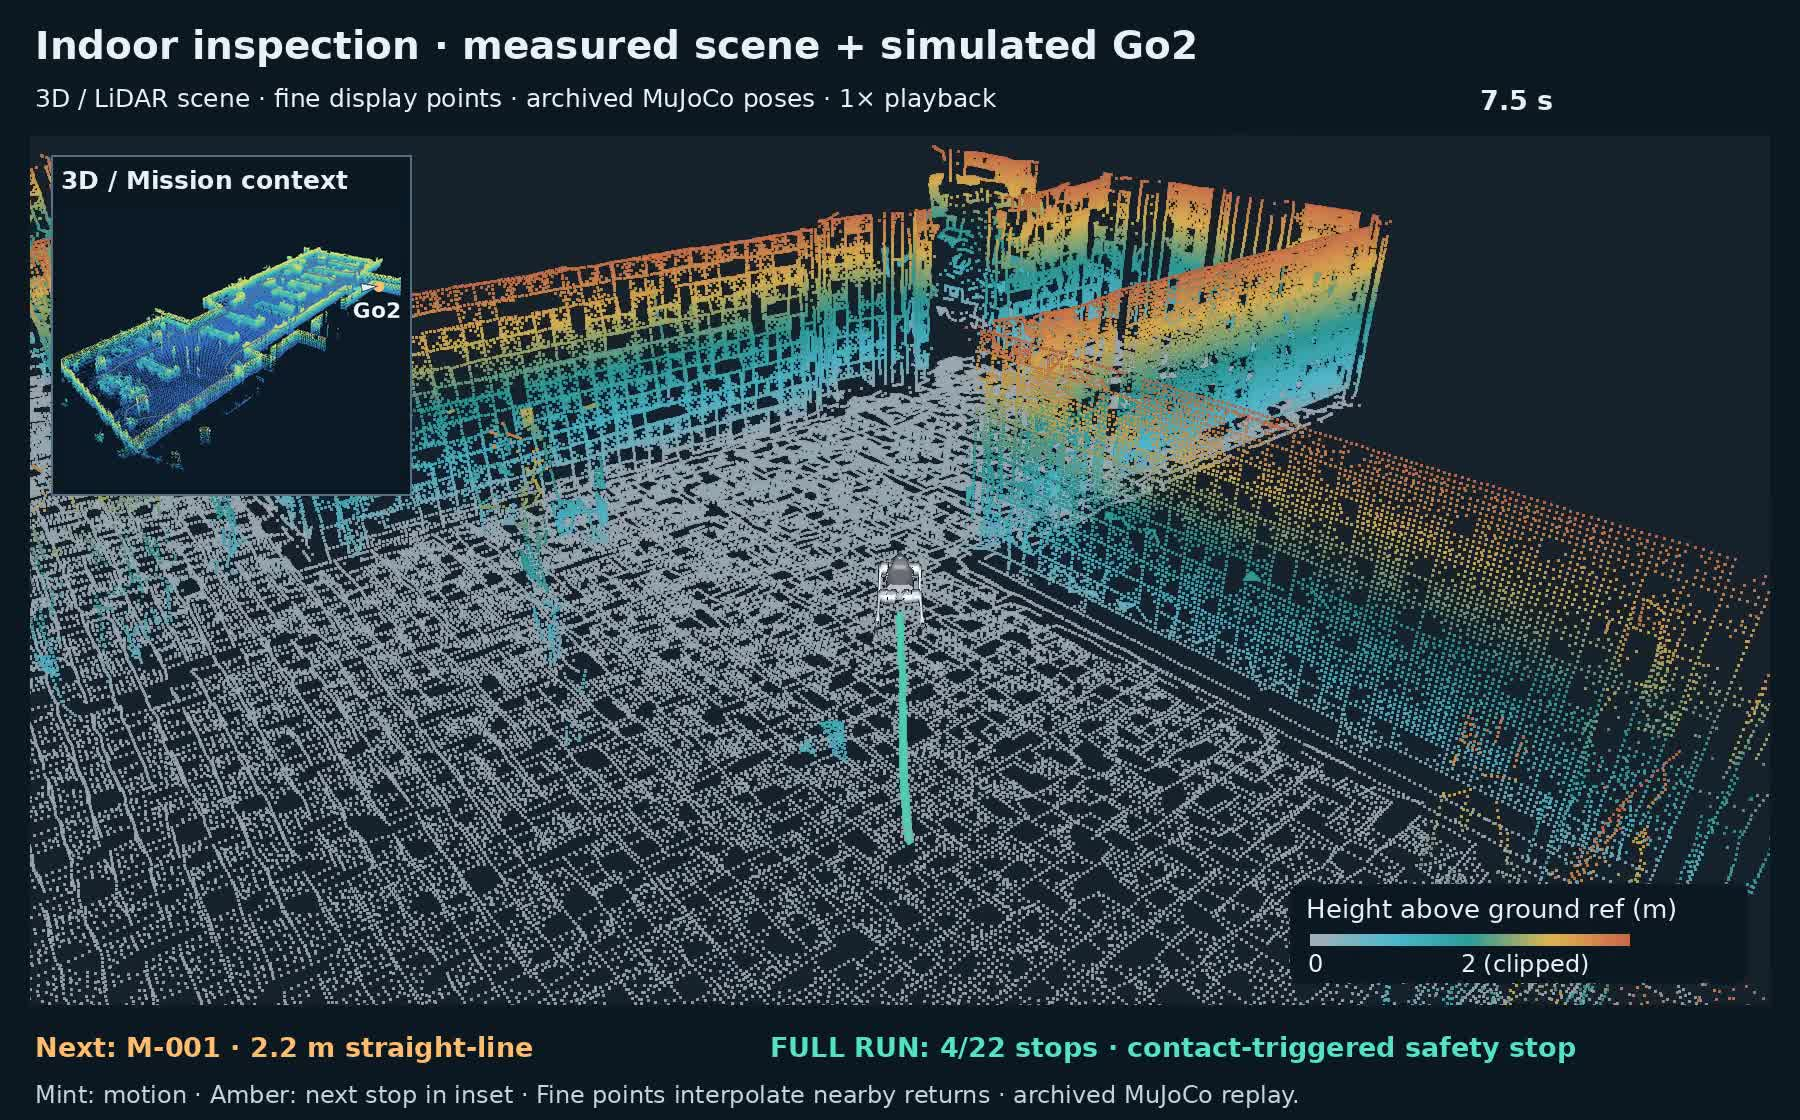
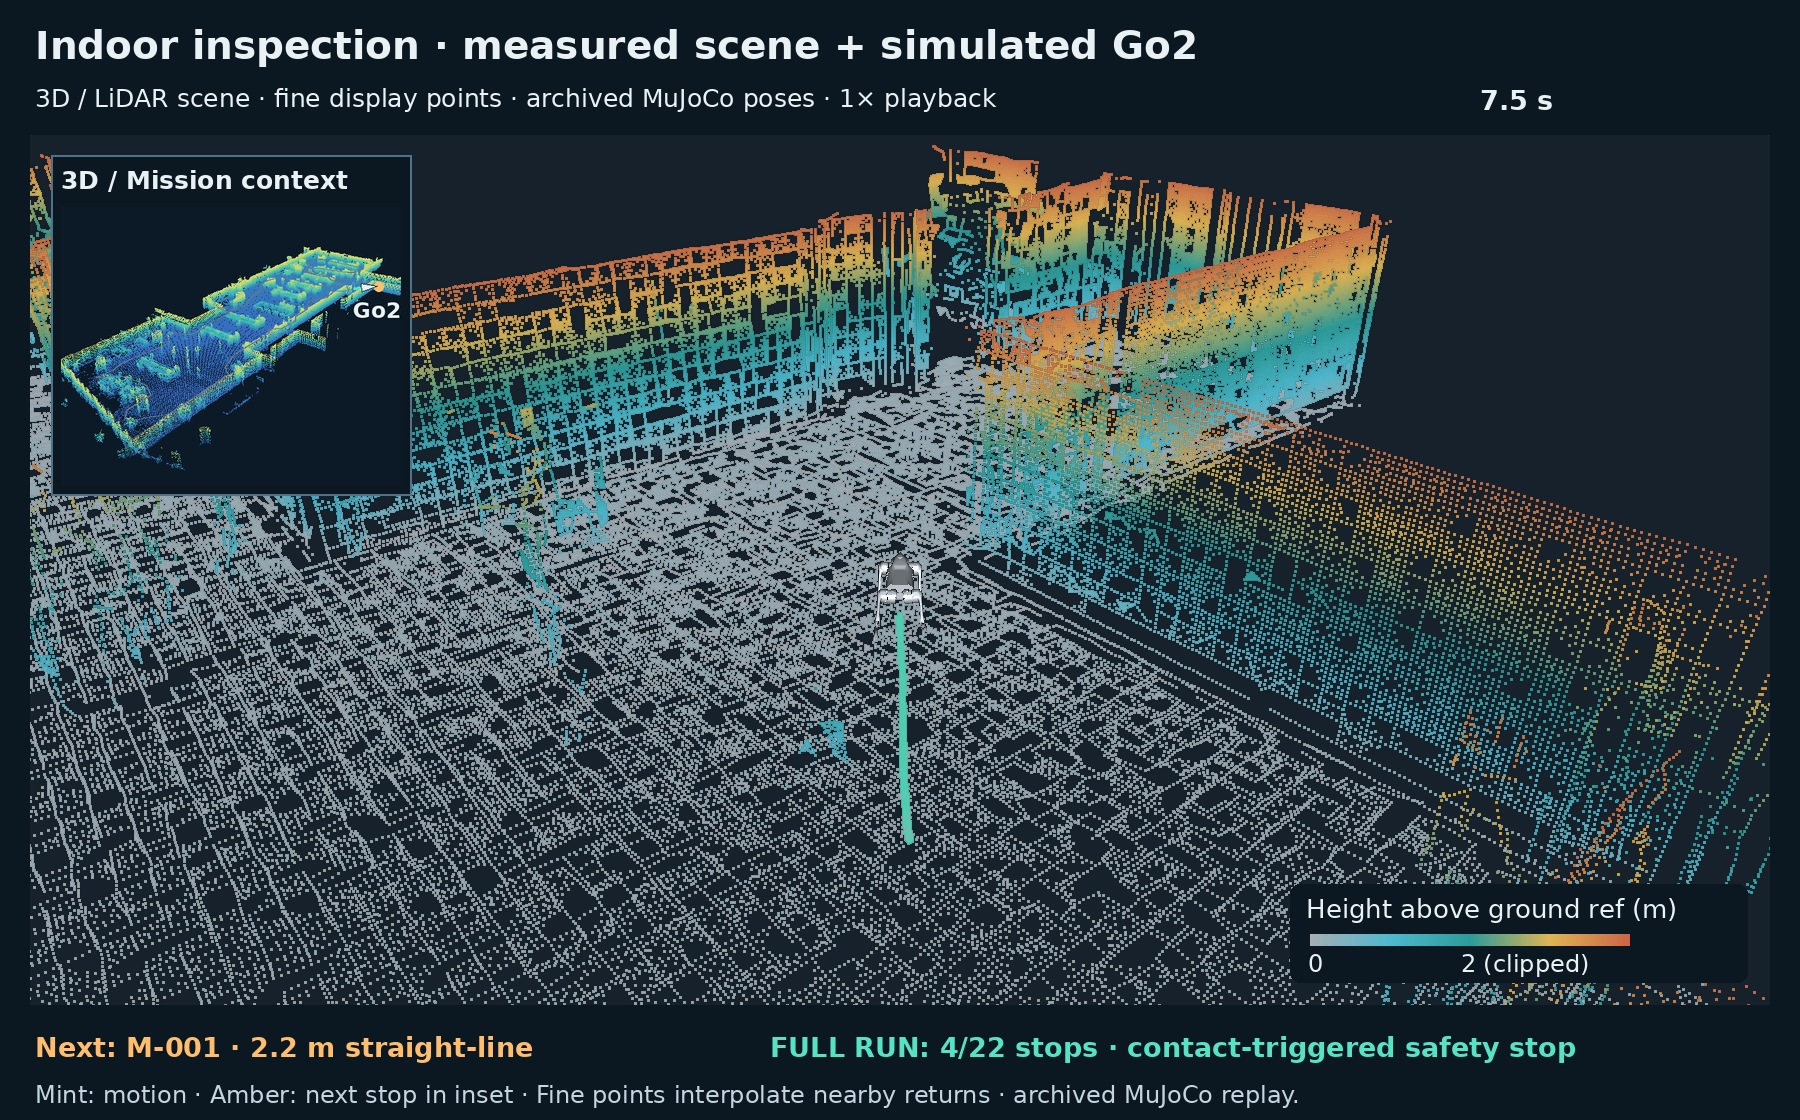
Align the final display palettes, legends, metadata and high-quality posters

diff --git a/examples/measured_renderer.py b/examples/measured_renderer.py
@@ -23,6 +23,10 @@ class MeasuredRenderer:
         )
         self.camera_fov = 42 if scene == "indoor" else 46
         self.display_radius_m = 20 if scene == "indoor" else 27
+        self.palette = list(PALETTE)
+        if scene == "outdoor":
+            self.palette[0] = "#546877"
+        self.trace_radius_m = 0.035 if scene == "outdoor" else 0.025
         self.model, self.scene, self.size = model, scene, size
         center = np.median(poses[:, :2], axis=0)
         excursion = np.max(np.linalg.norm(poses[:, :2] - center, axis=1))
@@ -105,7 +109,7 @@ class MeasuredRenderer:
         self.display_count = len(samples)
         lookup = vtk.vtkColorTransferFunction()
         for height, color in zip(
-            np.linspace(self.floor, self.floor + self.height_span, 5), PALETTE
+            np.linspace(self.floor, self.floor + self.height_span, 5), self.palette
         ):
             lookup.AddRGBPoint(
                 height, *[int(color[k : k + 2], 16) / 255 for k in (1, 3, 5)]
@@ -189,7 +193,7 @@ class MeasuredRenderer:
         self.trace_poly.SetPoints(self.trace_points)
         tube = vtk.vtkTubeFilter()
         tube.SetInputData(self.trace_poly)
-        tube.SetRadius(0.025)
+        tube.SetRadius(self.trace_radius_m)
         tube.SetNumberOfSides(8)
         trace_mapper = vtk.vtkPolyDataMapper()
         trace_mapper.SetInputConnection(tube.GetOutputPort())

diff --git a/examples/render_measured_patrol.py b/examples/render_measured_patrol.py
@@ -10,7 +10,7 @@ os.environ.setdefault("MUJOCO_GL", "egl")
 import mujoco as mj
 import numpy as np
 from PIL import Image, ImageDraw
-from .measured_renderer import MeasuredRenderer, PALETTE
+from .measured_renderer import MeasuredRenderer
 from .render_slam import BG, WHITE, MINT, AMBER, font
 from .slam_patrol import SCENES, build_model, ground, input_file, load_inputs
 from tools.point_cloud import read_xyz, height_rgb
@@ -195,7 +195,10 @@ def main():
                 position = k / 319 * 4
                 j = min(3, int(position))
                 colors = np.array(
-                    [[int(c[a : a + 2], 16) for a in (1, 3, 5)] for c in PALETTE]
+                    [
+                        [int(c[a : a + 2], 16) for a in (1, 3, 5)]
+                        for c in renderer.palette
+                    ]
                 )
                 rgb = tuple(
                     (
@@ -264,6 +267,8 @@ def main():
                 interpolation_plane_tolerance_m=0.023,
                 edl_weight=0.15,
                 pca_neighbors=12,
+                height_palette=renderer.palette,
+                trace_radius_m=renderer.trace_radius_m,
                 camera_offset_m=renderer.camera_offset.tolist(),
                 camera_vertical_fov_deg=renderer.camera_fov,
                 display_radius_m=renderer.display_radius_m,

diff --git a/docs/visual-comparison.md b/docs/visual-comparison.md
@@ -49,7 +49,7 @@ The main viewport now combines the original finite XYZ measurements with the Go2
 
 The local display renders small depth-tested points on a dark background. It inserts display samples along edges and within local triangles using nearby measured returns. A candidate neighbor must be within 0.23 m, with similar surface orientation and an offset within 0.023 m of both tangent planes. PCA normals use 12 neighbors. The extra points are display interpolation and the original returns remain in the view. The widened indoor and outdoor views contain 601,118 and 1,749,085 display samples, respectively; these counts include interpolation, not additional measurements. The color ramp encodes height above the display ground reference.
 
-A fixed eighth-percentile Z of the original 17 m neighborhood around the excerpt center, plus the excerpt's maximum horizontal excursion, supplies a **display ground reference**, distinct from the planner's per-cell ground estimate. The reference is preserved when widening the display neighborhood. The color ranges are 0–2 m indoors and 0–6 m outdoors, clipped outside the range. Both displays retain Z above that reference minus 0.3 m; indoor retains through plus 2.0 m and outdoor through plus 8.0 m. The neighborhood radius is 20 m indoors and 27 m outdoors, plus the excerpt excursion. These cutaways and footprints can obscure gaps and fine geometry; they are not a surface survey or a replacement collision model. The robot's silver display material improves contrast. A faint synthetic ellipse below the robot is a display grounding cue, not a measured shadow or evidence of foot contact. The world-relative chase camera uses 42° vertical FOV indoors with offset (−4.5, −5.3, 3.8) m, and 46° outdoors with offset (−5.6, −6.4, 4.8) m, measured from the body position. The focal point is body XYZ plus (0, 0, 0.1) m. [VTK camera documentation](https://vtk.org/doc/nightly/html/classvtkCamera.html) describes the perspective view-angle convention. The context inset sits at the upper left. The amber next-stop marker appears in the inset; the main viewport shows the robot and recent motion. Kinematics are evaluated with `mj_forward`; the renderer never calls `mj_step` or changes recorded states.
+A fixed eighth-percentile Z of the original 17 m neighborhood around the excerpt center, plus the excerpt's maximum horizontal excursion, supplies a **display ground reference**, distinct from the planner's per-cell ground estimate. The reference is preserved when widening the display neighborhood. The color ranges are 0–2 m indoors and 0–6 m outdoors, clipped outside the range. Both displays retain Z above that reference minus 0.3 m; indoor retains through plus 2.0 m and outdoor through plus 8.0 m. The neighborhood radius is 20 m indoors and 27 m outdoors, plus the excerpt excursion. These cutaways and footprints can obscure gaps and fine geometry; they are not a surface survey or a replacement collision model. The robot's silver display material improves contrast. Outdoors, the lowest height color is dark slate (#546877), and the recent-path tube radius is 0.035 m (0.025 m indoors), so the wider view keeps the moving robot and trace distinct from the ground. The matching main-view legend uses the same scene palette. A faint synthetic ellipse below the robot is a display grounding cue, not a measured shadow or evidence of foot contact. The world-relative chase camera uses 42° vertical FOV indoors with offset (−4.5, −5.3, 3.8) m, and 46° outdoors with offset (−5.6, −6.4, 4.8) m, measured from the body position. The focal point is body XYZ plus (0, 0, 0.1) m. [VTK camera documentation](https://vtk.org/doc/nightly/html/classvtkCamera.html) describes the perspective view-angle convention. The context inset sits at the upper left. The amber next-stop marker appears in the inset; the main viewport shows the robot and recent motion. Kinematics are evaluated with `mj_forward`; the renderer never calls `mj_step` or changes recorded states.
 
 Earlier presets included original-point spheres, Gaussian-density surfaces, tangent disks and implicit reconstruction. The examples below show how the small-point display reveals more of the scan footprint and reduces the prominence of individual disks.
 
